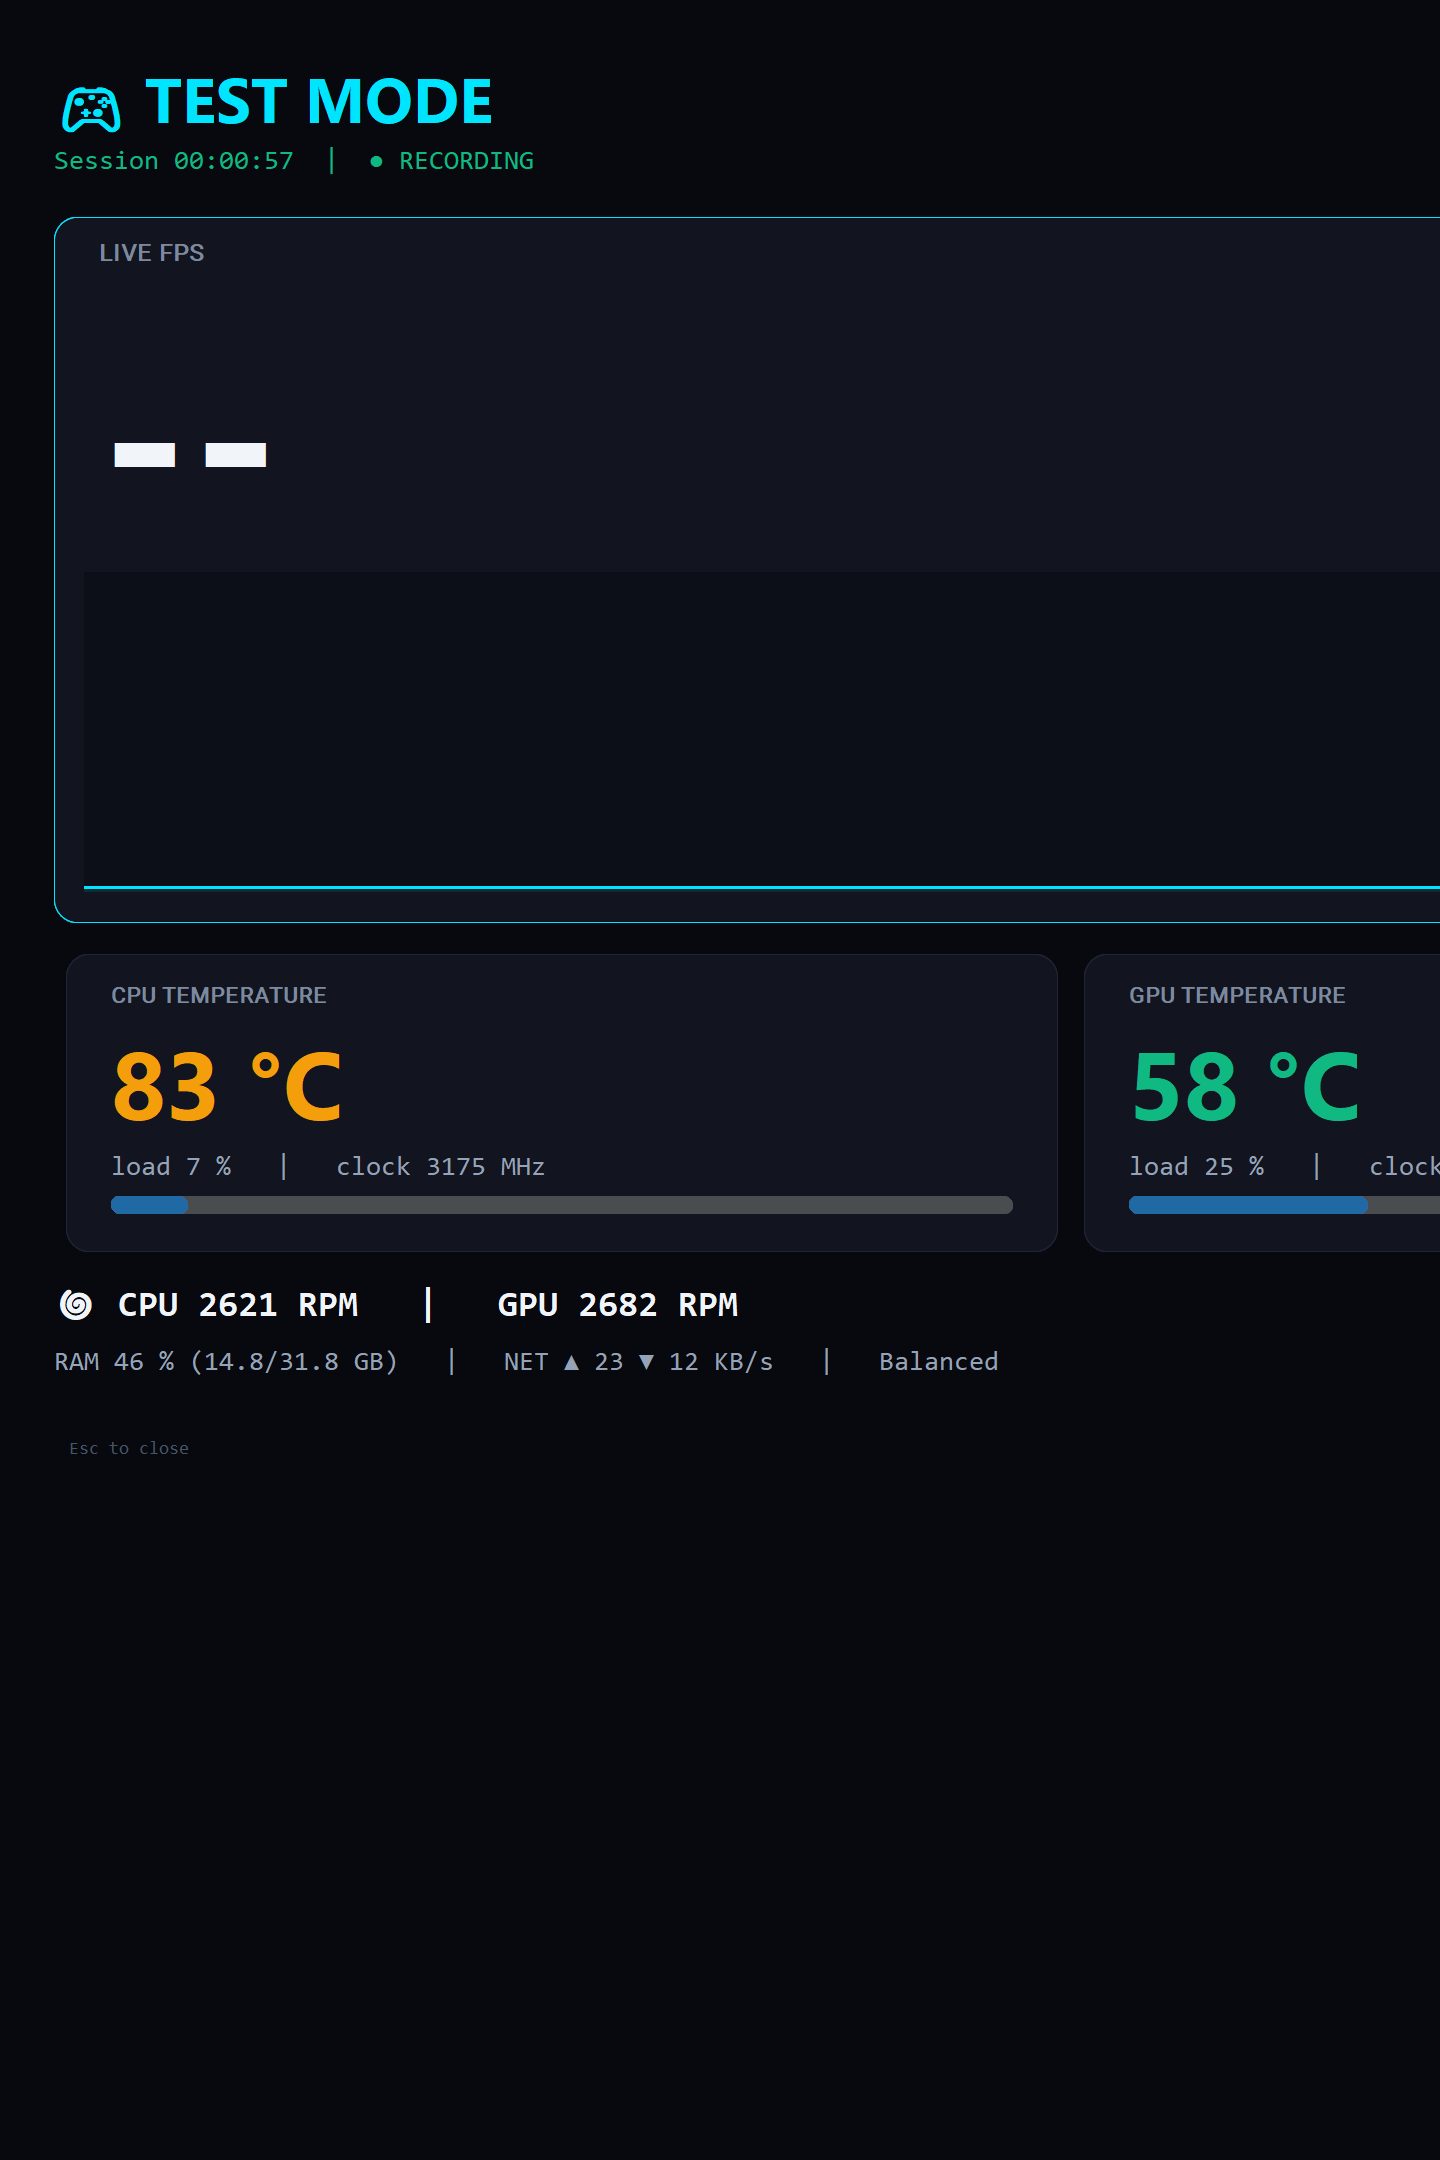
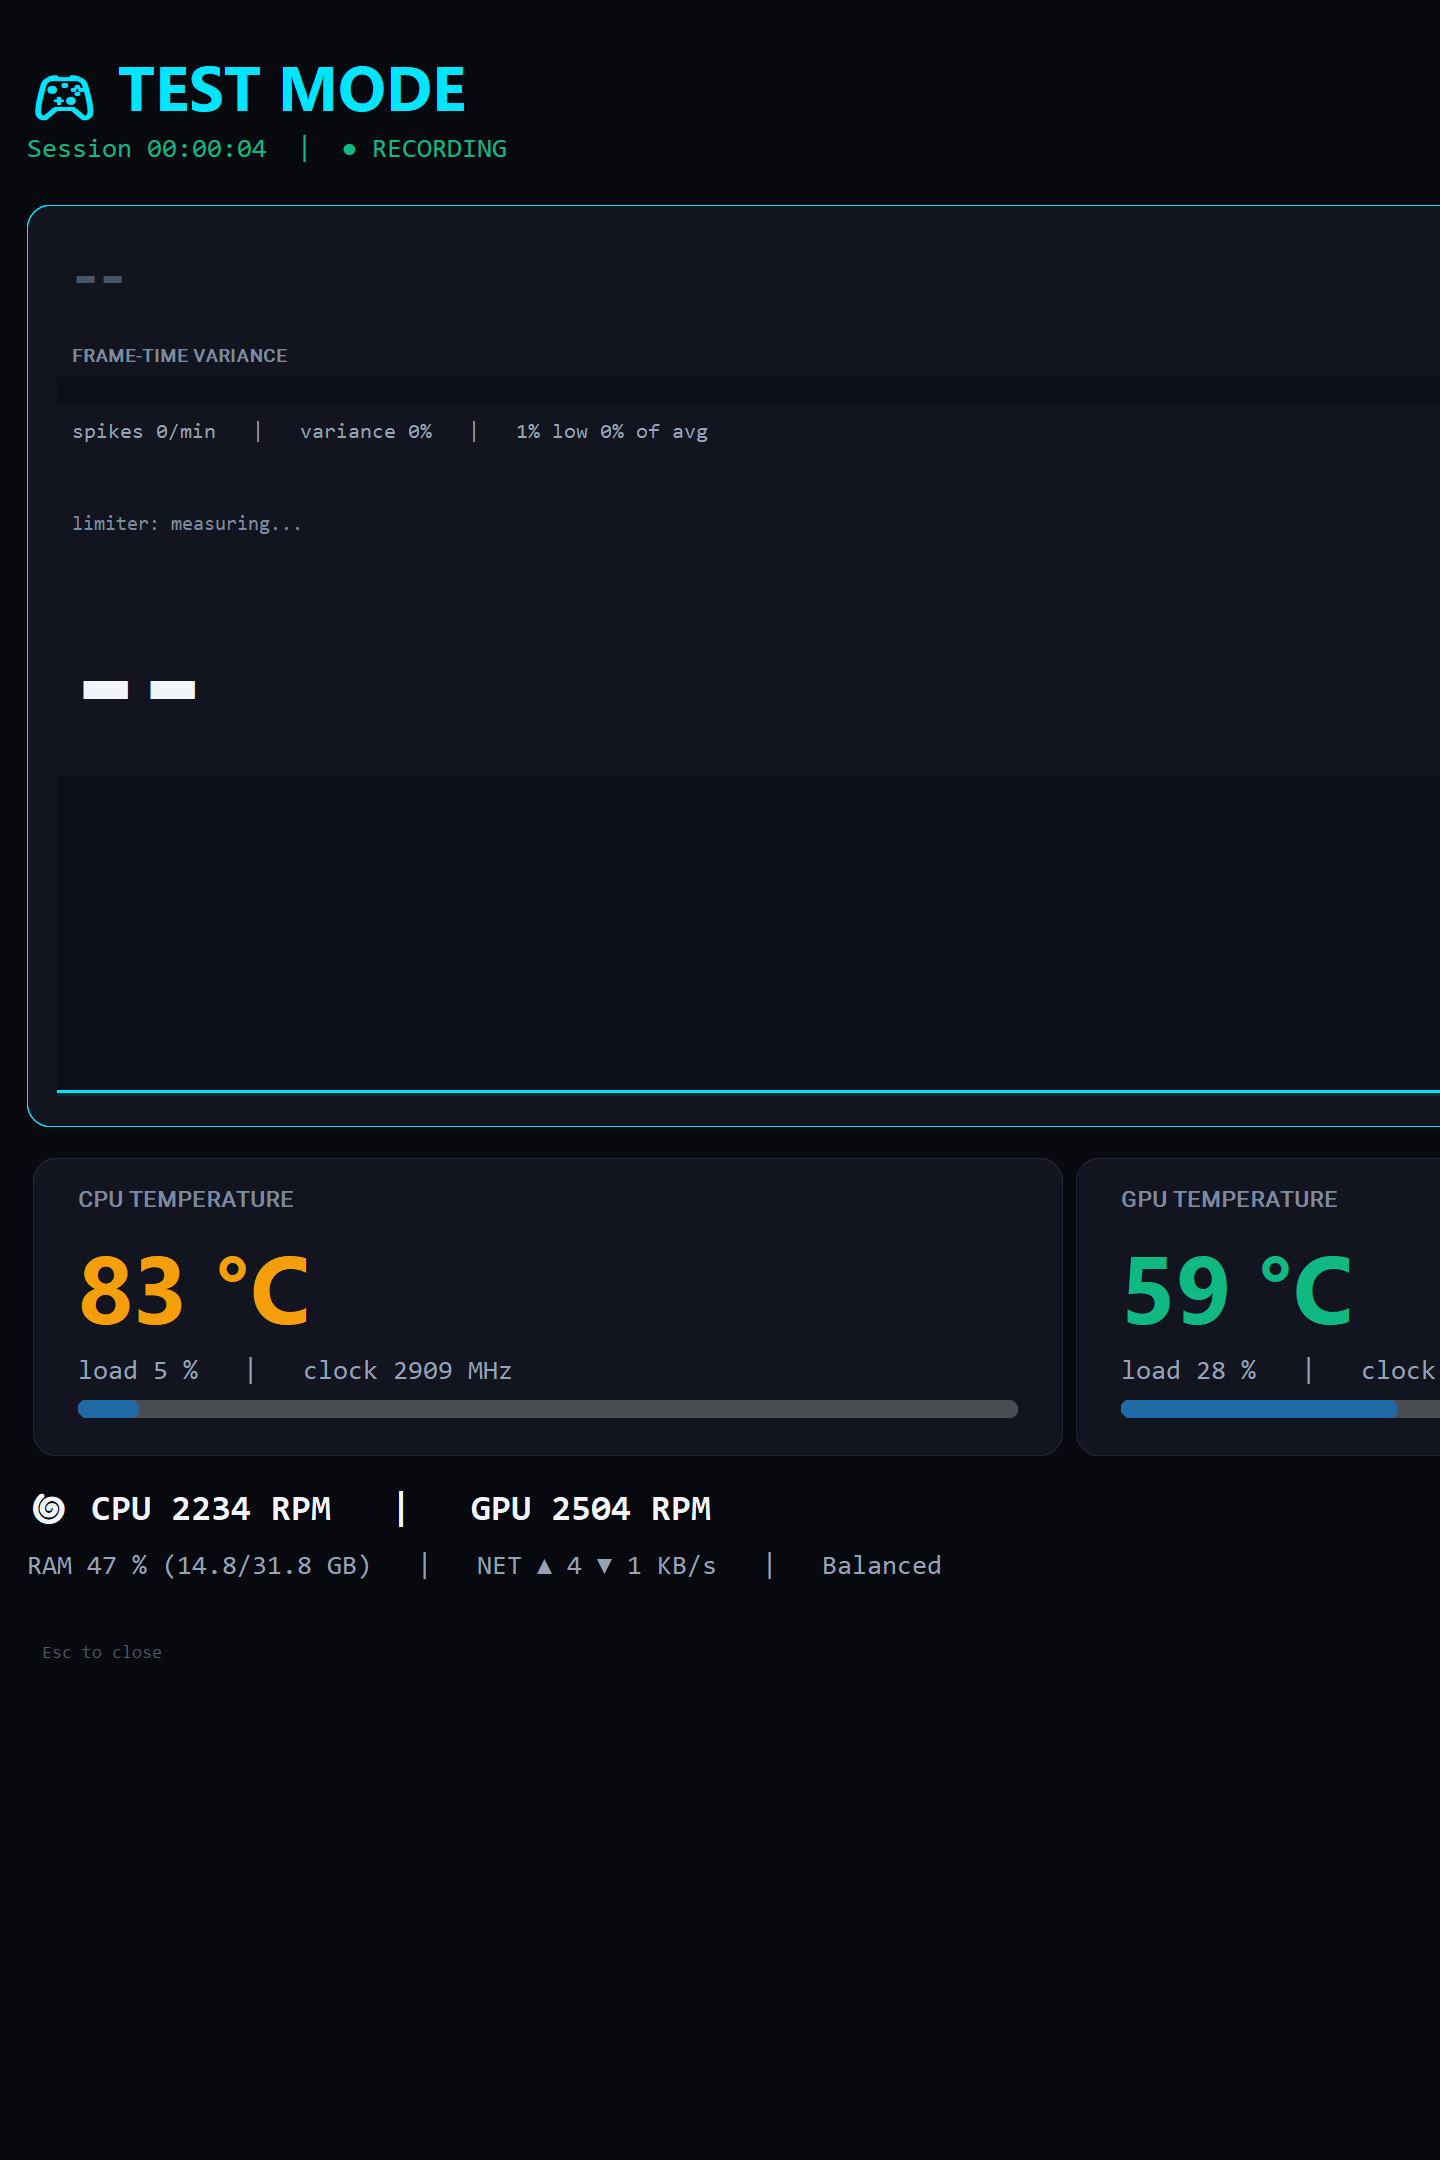
Game dashboard: fix DPI zoom (pin per-window CTk scaling 1:1), fit 1440x2160 portrait screen, self-capture via PrintWindow

diff --git a/dashboard_widget.py b/dashboard_widget.py
@@ -70,6 +70,18 @@ class GameDashboardWindow(ctk.CTkToplevel):
     def __init__(self, master, game_name: str, exe_name: str, monitor: dict):
         super().__init__(master)
 
+        # CTk auto-scales every widget by the Windows DPI factor (150% here),
+        # which would render our monitor-sized layout 1.5x too big. Pin THIS
+        # window's scaling BEFORE any widget exists, so everything renders
+        # 1:1 physical pixels instead of CTk's 1.5x DPI scaling.
+        w, h = monitor["width"], monitor["height"]
+        self._fit_scaling = max(0.4, min(1.0, min(w / 1440.0, h / 2160.0)))
+        self._monitor_w, self._monitor_h = w, h
+        try:
+            ctk.ScalingTracker.window_dpi_scaling_dict[self] = self._fit_scaling
+        except Exception:
+            pass
+
         self.game_name = game_name
         self.exe_name = exe_name.lower()
         self.session_start = time.time()
@@ -77,14 +89,13 @@ class GameDashboardWindow(ctk.CTkToplevel):
         self._gone_checks = 0
         self._closed = False
 
-        w, h = monitor["width"], monitor["height"]
         self.overrideredirect(True)
         self.geometry(f"{w}x{h}+{monitor['left']}+{monitor['top']}")
         self.configure(fg_color="#07090f")
         self.bind("<Escape>", lambda e: self.close_dashboard())
 
         col = ctk.CTkScrollableFrame(self, fg_color="transparent")
-        col.pack(fill="both", expand=True, padx=30, pady=30)
+        col.pack(fill="both", expand=True, padx=14, pady=24)
 
         # Header
         hdr = ctk.CTkFrame(col, fg_color="transparent")
@@ -189,12 +200,19 @@ class GameDashboardWindow(ctk.CTkToplevel):
                       font=ctk.CTkFont(size=12, weight="bold"),
                       command=self.close_dashboard).pack(side="right", padx=10)
 
+        # widgets were created at the pinned scaling - just re-assert the
+        # dict entry in case CTk re-registered the window during creation
+        try:
+            ctk.ScalingTracker.window_dpi_scaling_dict[self.winfo_toplevel()] = self._fit_scaling
+        except Exception:
+            pass
+
         self.after(1000, self._tick)
 
     def _big_card(self, parent, col, name, accent="#00e5ff"):
         card = ctk.CTkFrame(parent, fg_color="#12141f", corner_radius=16,
                             border_width=1, border_color="#1f2436")
-        card.grid(row=0, column=col, sticky="nsew", padx=8, ipady=6)
+        card.grid(row=0, column=col, sticky="nsew", padx=4, ipady=6)
         ctk.CTkLabel(card, text=f"{name} TEMPERATURE",
                      font=ctk.CTkFont(size=15, weight="bold"),
                      text_color="#7c8aa0").pack(anchor="w", padx=30, pady=(14, 0))
@@ -331,6 +349,39 @@ class GameDashboardWindow(ctk.CTkToplevel):
             c.create_line(pts, fill="#00e5ff", width=3, smooth=True)
         c.create_text(w - 10, 14, text=f"peak {max(hist):.0f}", fill="#475569",
                       font=("Consolas", 11), anchor="e")
+
+    def capture_to_file(self, path):
+        """PrintWindow self-capture - works even while occluded by other windows."""
+        import ctypes
+        user32 = ctypes.windll.user32
+        gdi32 = ctypes.windll.gdi32
+
+        class BMIH(ctypes.Structure):
+            _fields_ = [("biSize", ctypes.c_uint32), ("biWidth", ctypes.c_int32),
+                        ("biHeight", ctypes.c_int32), ("biPlanes", ctypes.c_uint16),
+                        ("biBitCount", ctypes.c_uint16), ("biCompression", ctypes.c_uint32),
+                        ("biSizeImage", ctypes.c_uint32), ("xr", ctypes.c_int32),
+                        ("yr", ctypes.c_int32), ("c1", ctypes.c_uint32),
+                        ("c2", ctypes.c_uint32)]
+
+        w = self._monitor_w
+        h = self._monitor_h
+        hwnd = user32.GetAncestor(self.winfo_id(), 2)  # GA_ROOT
+        hdc = user32.GetWindowDC(hwnd)
+        mem = gdi32.CreateCompatibleDC(hdc)
+        bmp = gdi32.CreateCompatibleBitmap(hdc, w, h)
+        gdi32.SelectObject(mem, bmp)
+        ok = user32.PrintWindow(hwnd, mem, 2)  # PW_RENDERFULLCONTENT
+        bmi = BMIH(ctypes.sizeof(BMIH), w, -h, 1, 32, 0, 0, 0, 0, 0, 0)
+        buf = ctypes.create_string_buffer(w * h * 4)
+        gdi32.GetDIBits(mem, bmp, 0, h, buf, ctypes.byref(bmi), 0)
+        from PIL import Image
+        img = Image.frombuffer("RGBA", (w, h), buf.raw, "raw", "BGRA", 0, 1).convert("RGB")
+        img.save(path)
+        gdi32.DeleteObject(bmp)
+        gdi32.DeleteDC(mem)
+        user32.ReleaseDC(hwnd, hdc)
+        return ok
 
     def close_dashboard(self):
         if getattr(self, "_closed", False):

diff --git a/app.py b/app.py
@@ -196,6 +196,21 @@ class G16App(ctk.CTk):
                 os.remove(p)
                 if req == "open_dash":
                     self.open_game_dashboard("TEST MODE", "explorer.exe")
+                elif req == "raise_dash":
+                    if self.game_dashboard:
+                        self.game_dashboard.attributes("-topmost", True)
+                        self.game_dashboard.lift()
+                        self.game_dashboard.focus_force()
+                        self.after(1200, lambda: self.game_dashboard.attributes(
+                            "-topmost", False))
+                elif req == "capture_dash":
+                    if self.game_dashboard:
+                        try:
+                            self.game_dashboard.capture_to_file(
+                                os.path.join(SCRIPT_DIR, "docs", "screenshots",
+                                             "07_second_screen.png"))
+                        except Exception:
+                            pass
                 elif req == "close_dash":
                     if self.game_dashboard:
                         self.game_dashboard.close_dashboard()
